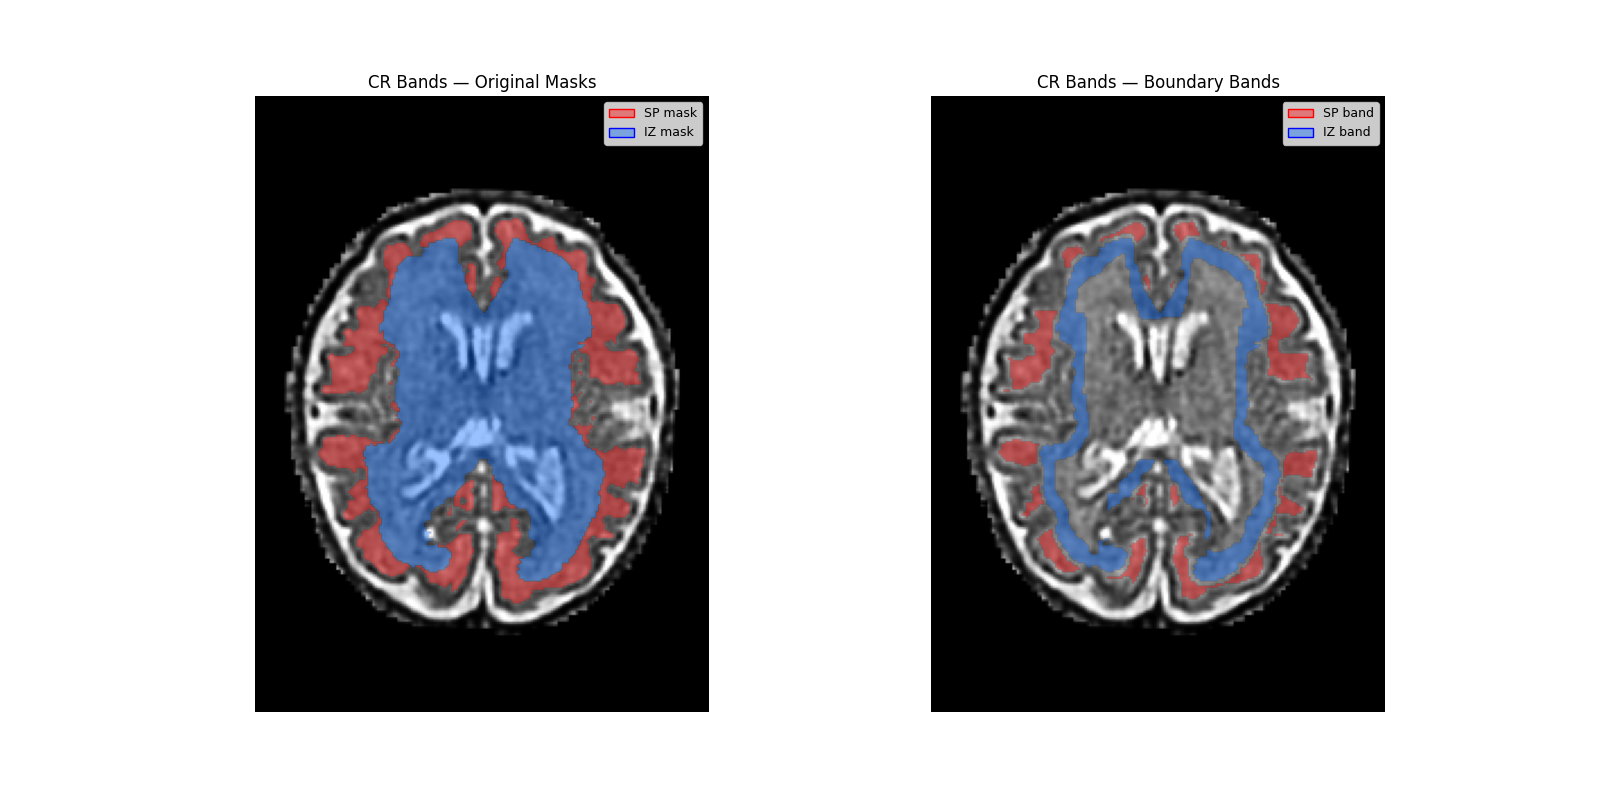
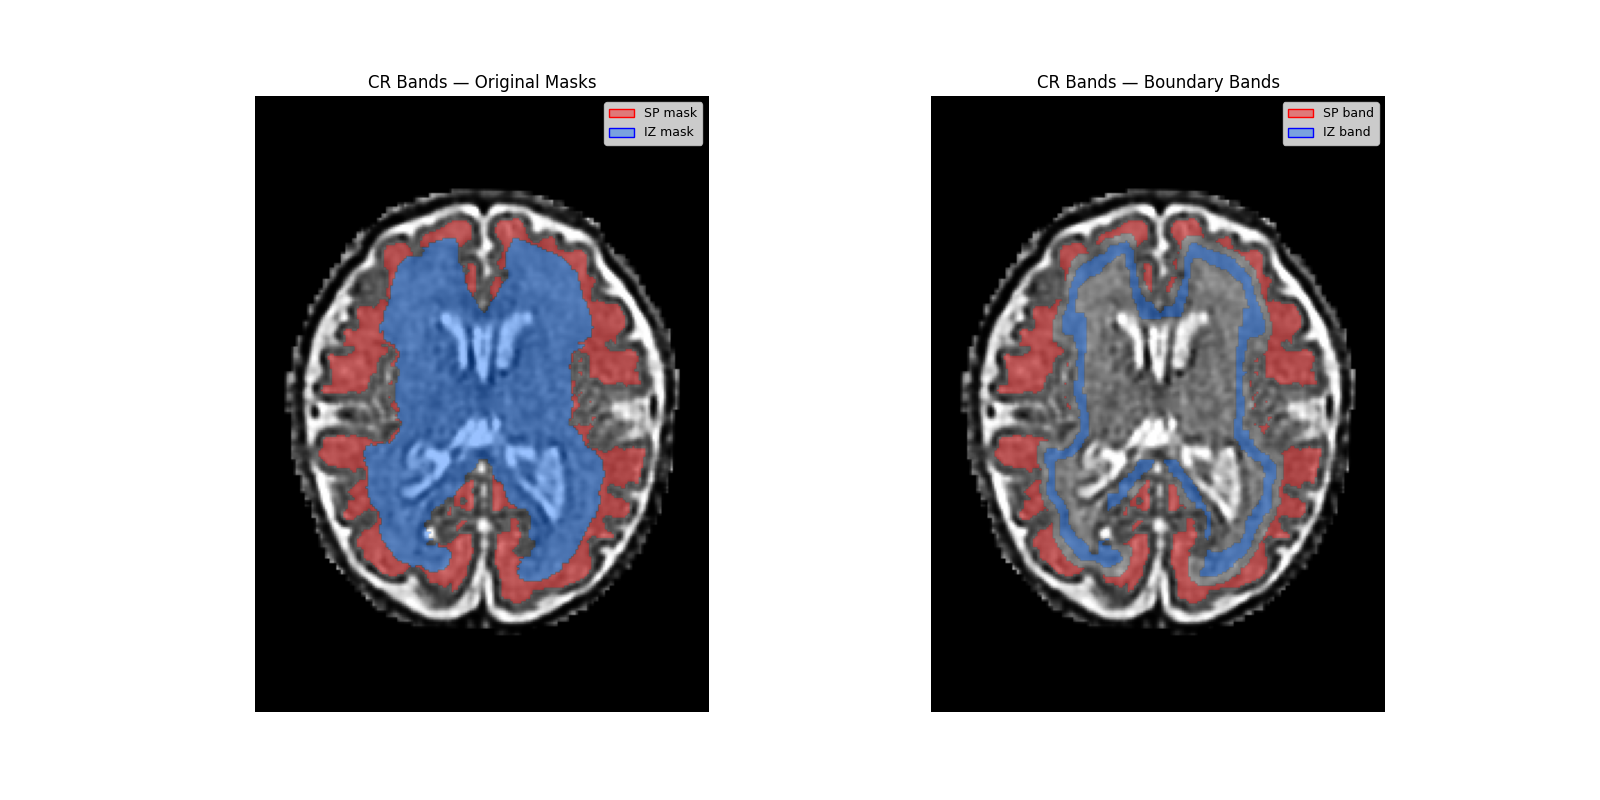
SP and IZ no boundary 1mm

diff --git a/analisys/functions/CNR.py b/analisys/functions/CNR.py
@@ -1,7 +1,7 @@
 import nibabel as nib
 import numpy as np
 import pandas as pd
-from scipy.ndimage import binary_dilation, generate_binary_structure, binary_erosion
+from scipy.ndimage import binary_dilation, generate_binary_structure
 import os
 import matplotlib.pyplot as plt
 from functions.helpers import get_middle_slice, normalize_intensity
@@ -23,15 +23,16 @@ def compute_cr(t2_data, seg_data, connectivity=3):
     sp_mask = np.isin(seg_data, TISSUE_LABELS["sp"])
     iz_mask = np.isin(seg_data, TISSUE_LABELS["inner"])
 
+    # SP boundary: SP voxels adjacent to IZ
     sp_boundary = sp_mask & binary_dilation(iz_mask, structure=struct)
+    # IZ boundary: IZ voxels adjacent to SP
     iz_boundary = iz_mask & binary_dilation(sp_mask, structure=struct)
 
     # Get a band of the sp by removing the boundary
-    sp_eroded = binary_erosion(sp_mask, structure=struct, iterations=1)
-    sp_band = sp_eroded  # the inner core, away from both CP and IZ
+    sp_band = sp_mask & ~sp_boundary
 
     # Get a band of the iz by dilating the boundary inwards
-    iz_band_dilated = binary_dilation(iz_boundary, iterations=2, structure=struct)
+    iz_band_dilated = binary_dilation(iz_boundary, iterations=3, structure=struct)
     iz_band = iz_band_dilated & iz_mask
     iz_band = iz_band & ~iz_boundary
 
